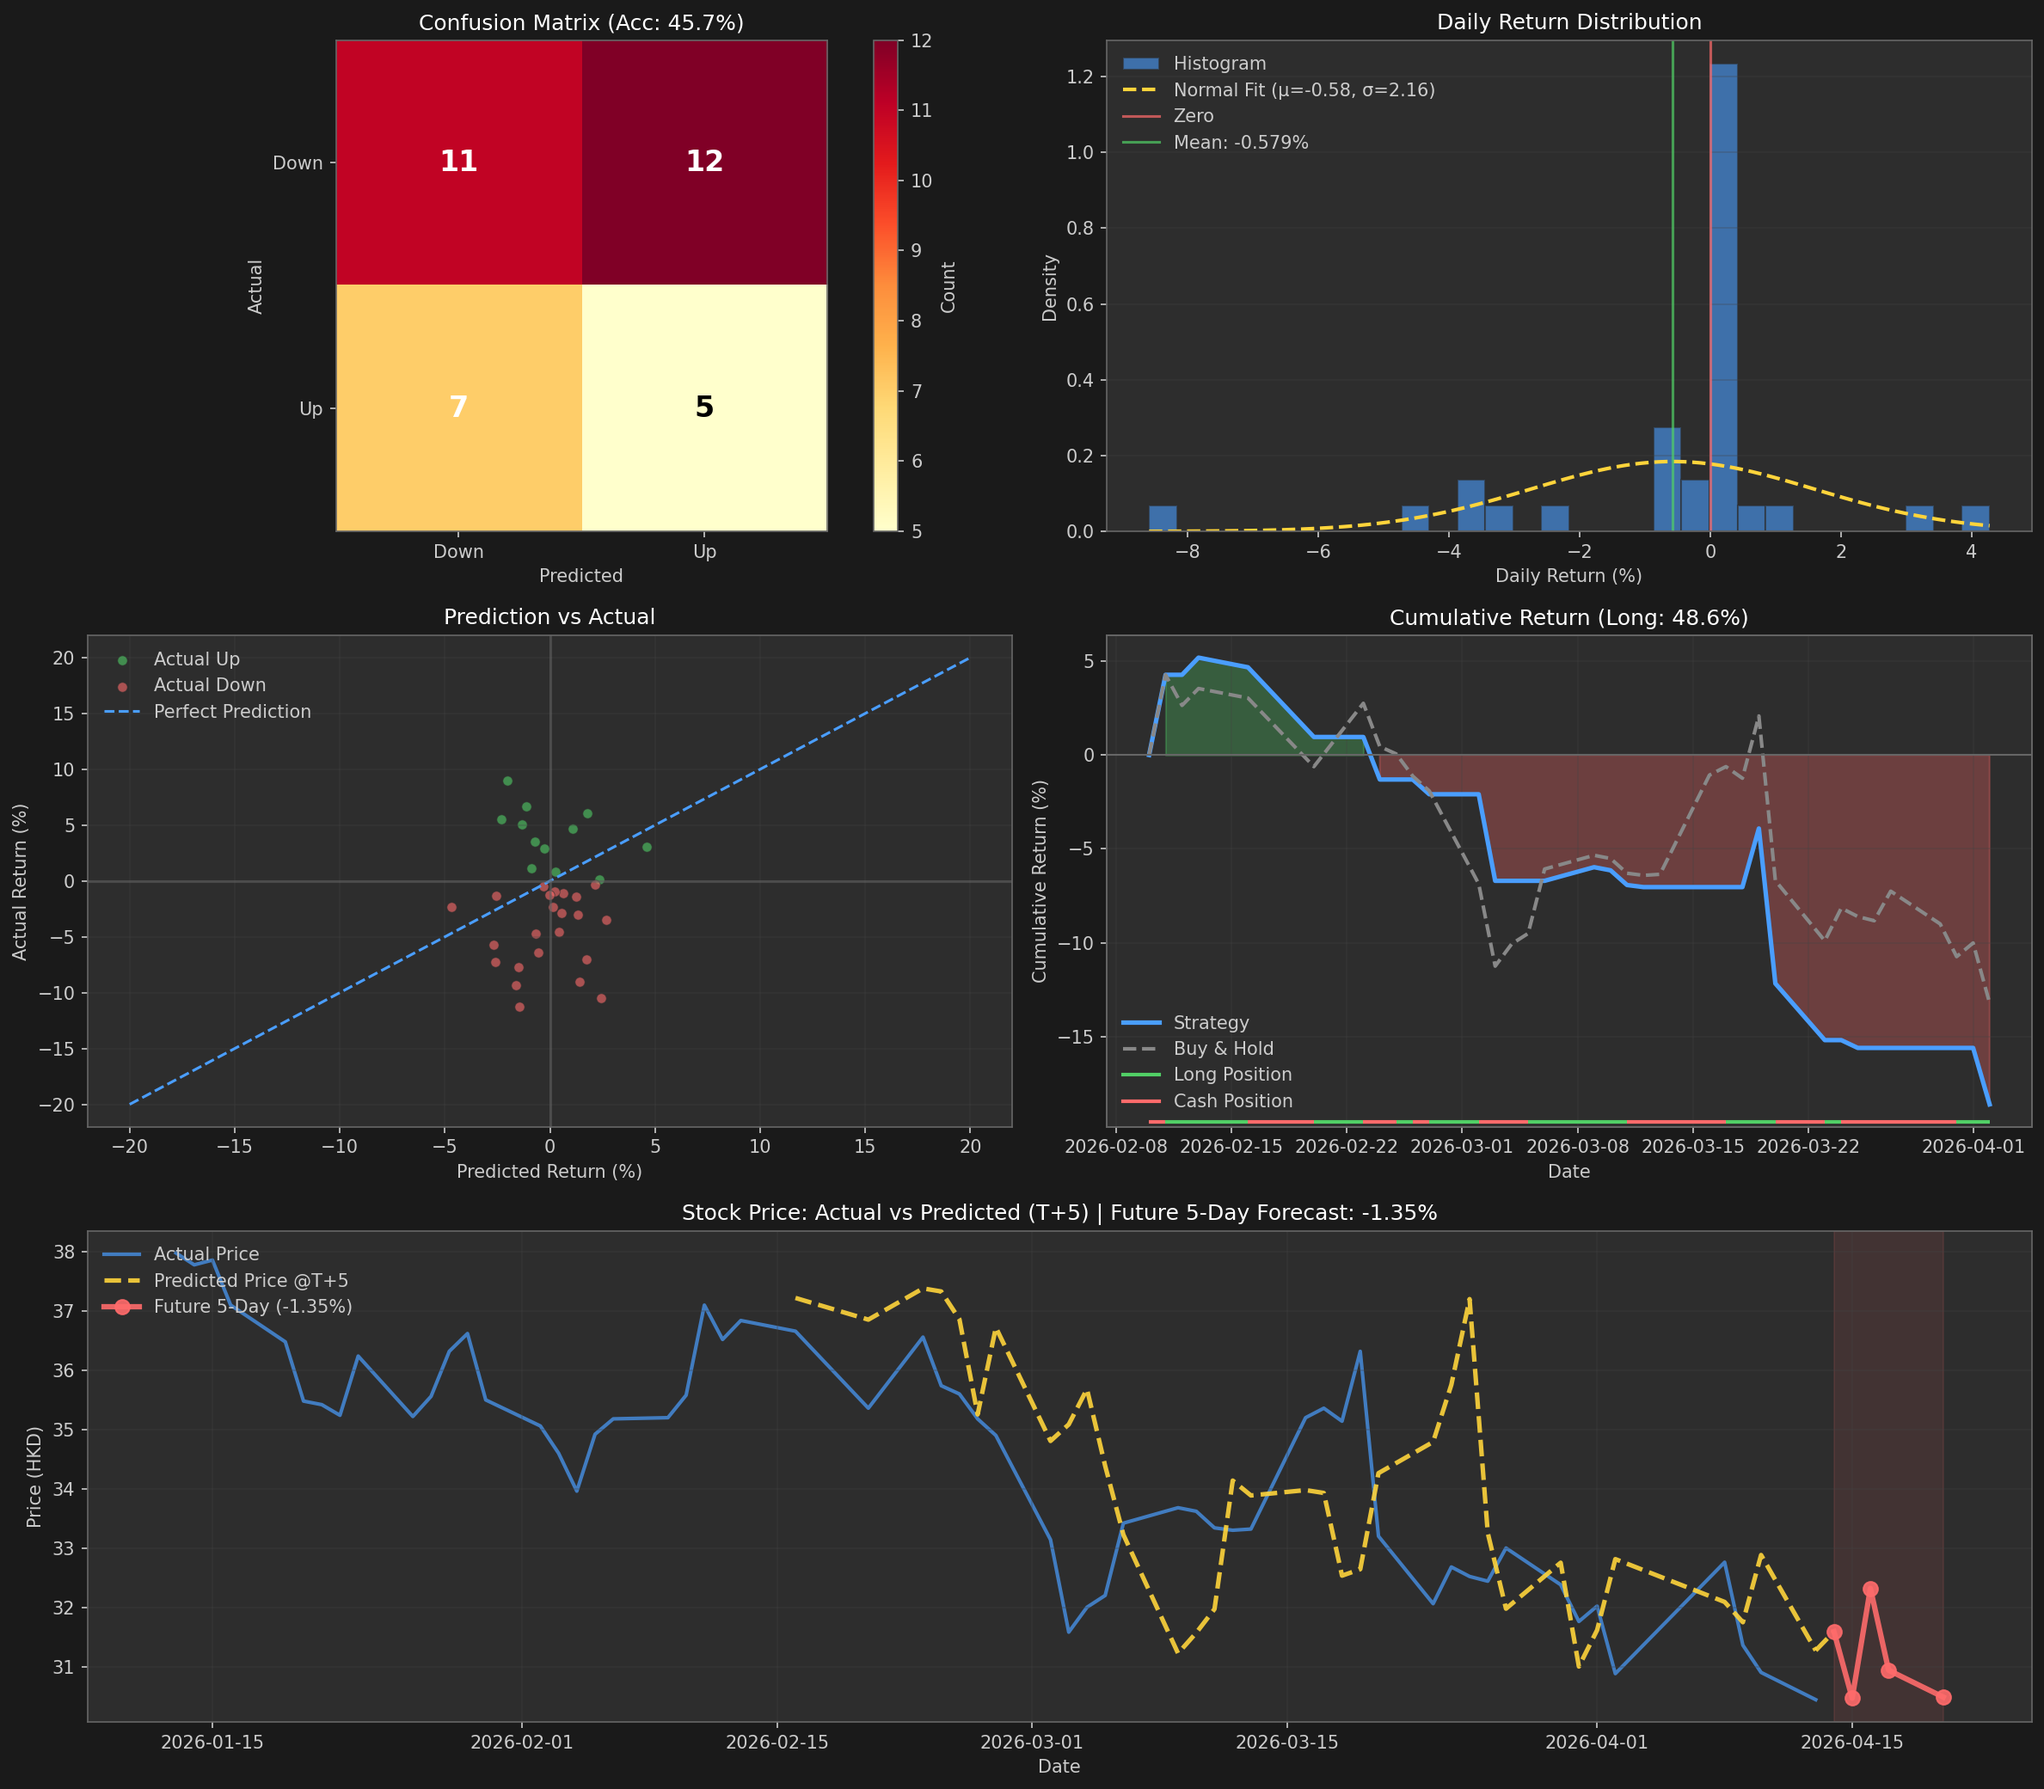
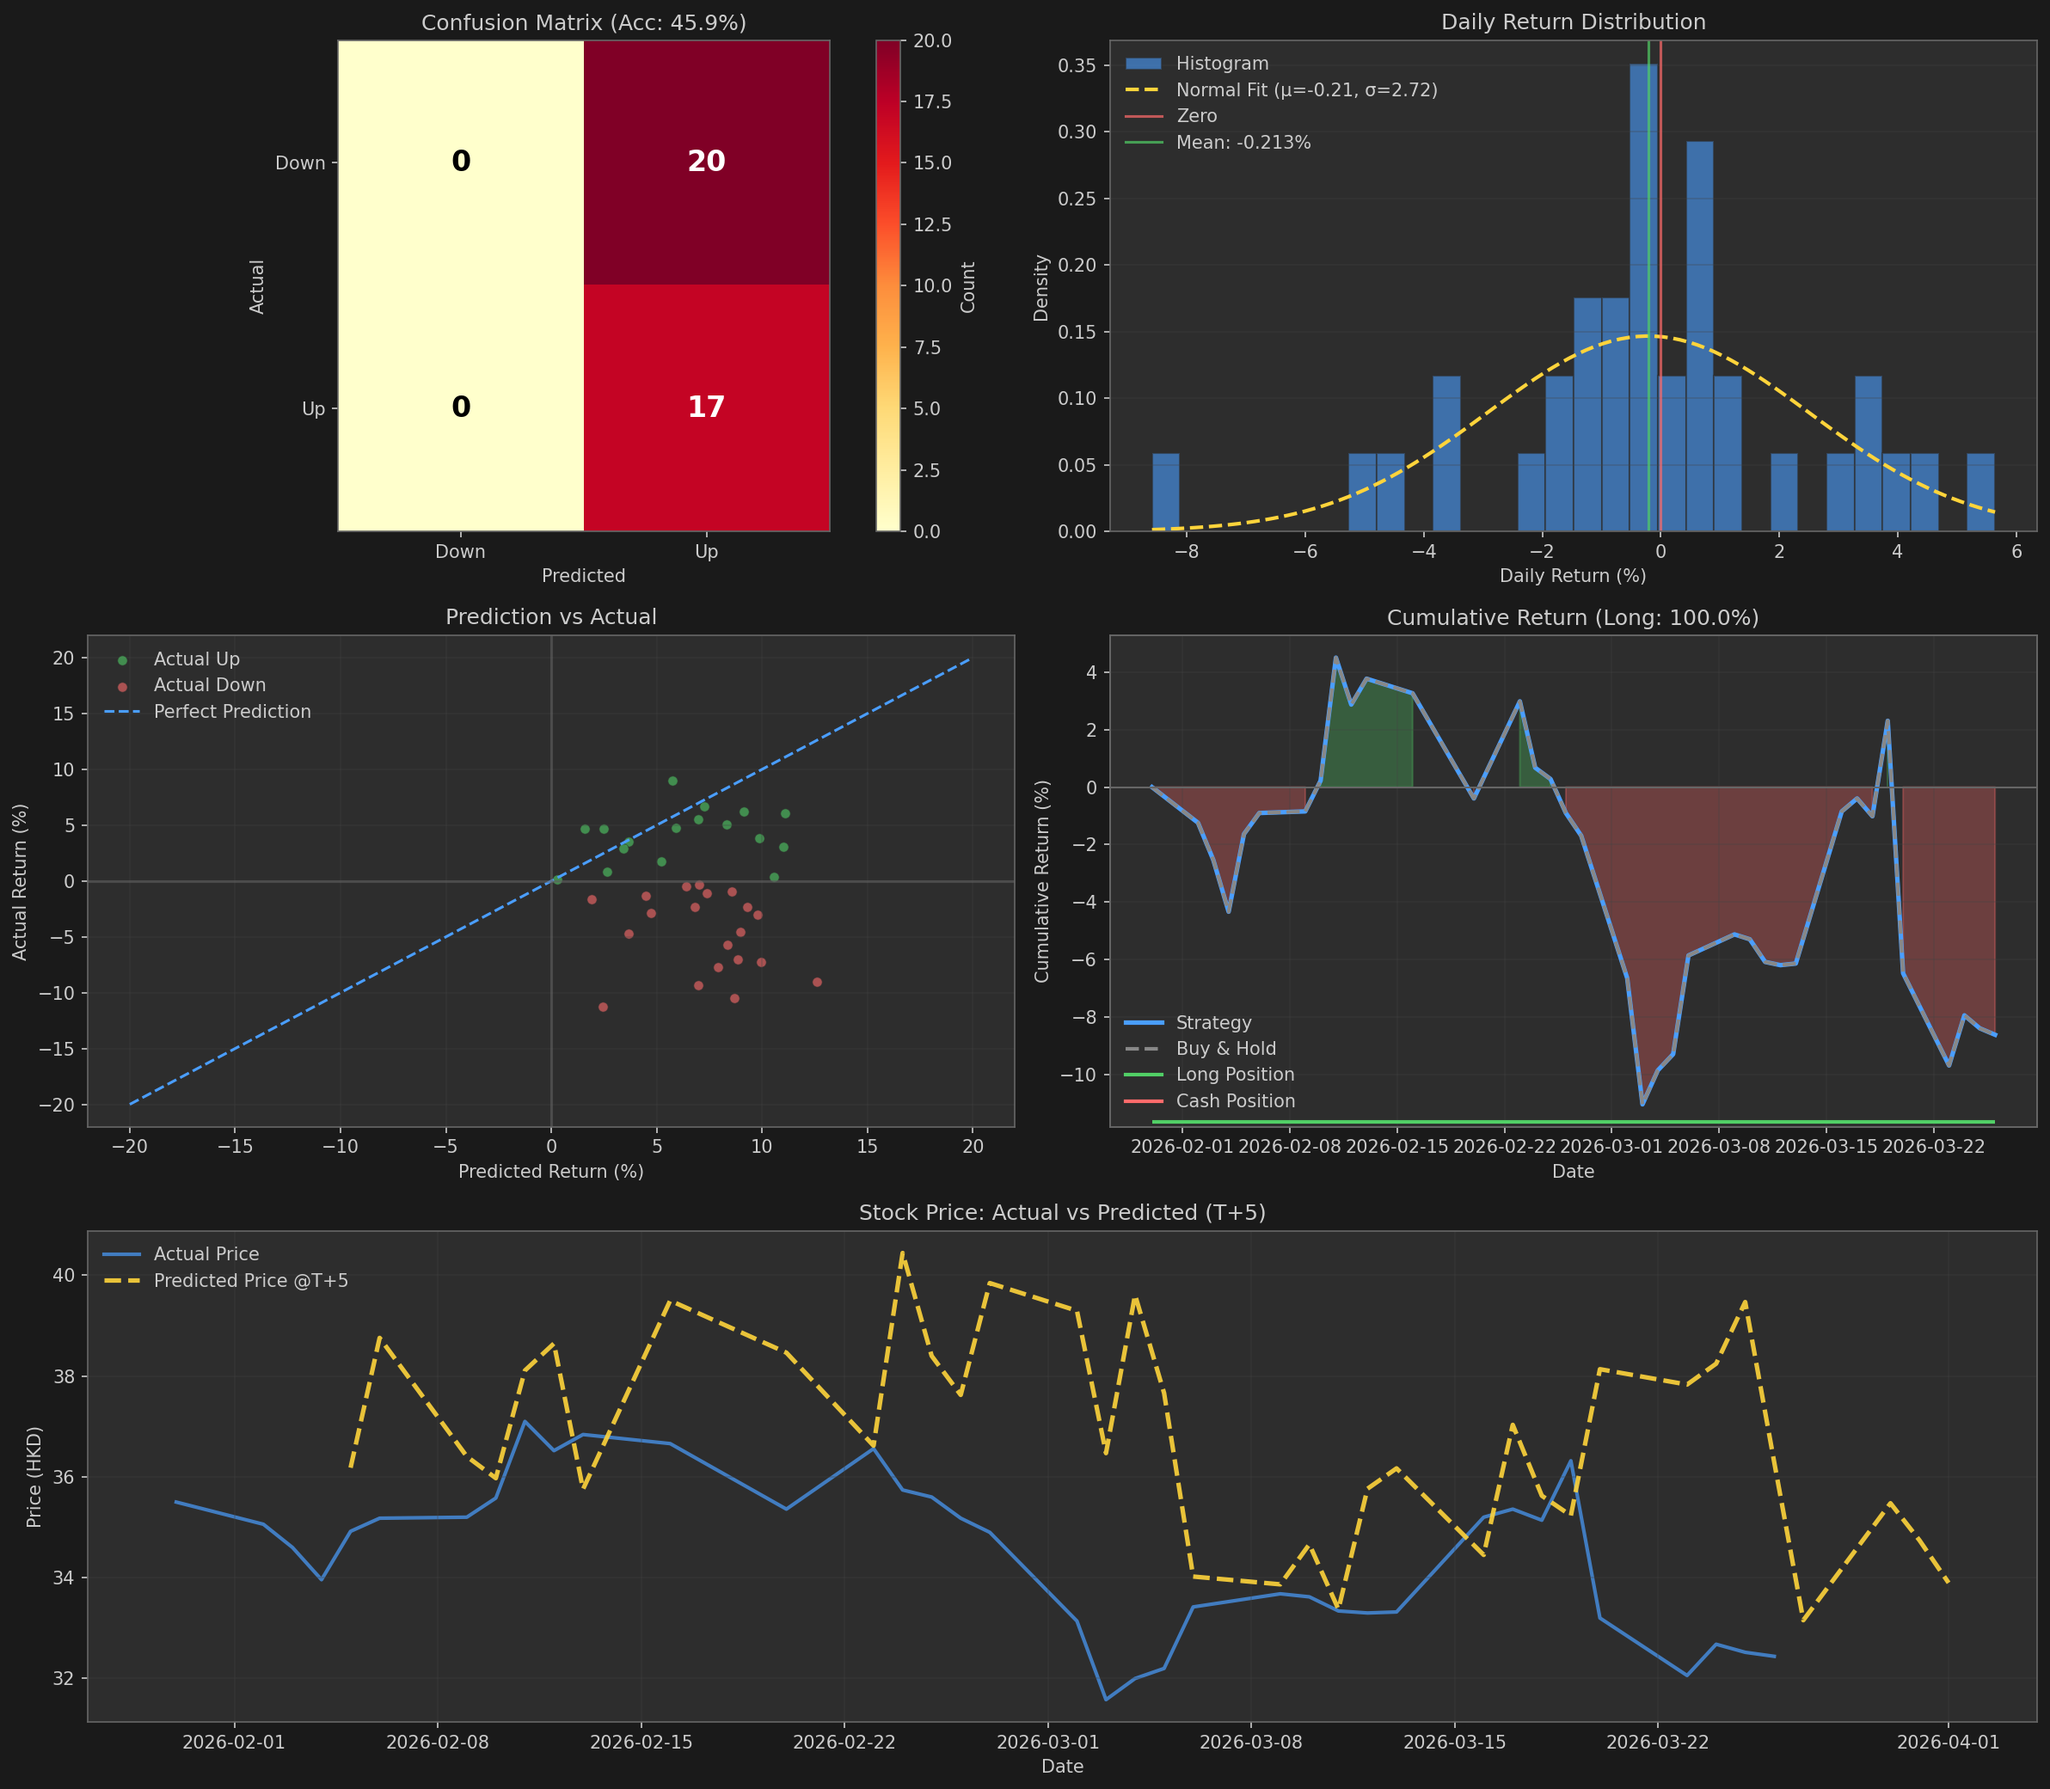
fix(backtest): auto-select latest model, add model_config saving
- backtest.py: prioritize latest timestamp model, add weights_only=False for PyTorch 2.6+
- backtest.py: fallback logic for model config (old checkpoints vs new)
- trainer.py: accept optional model_config dict in save_checkpoint()
- train.py: pass model architecture config to checkpoint for backtest compatibility

diff --git a/scripts/backtest.py b/scripts/backtest.py
@@ -43,14 +43,54 @@ def main():
     feature_cols = engineer.get_feature_columns()
     df_clean = engineer.clean(df_features, feature_cols)
     
-    # 2. 加載模型
-    model_path = f"{config.paths.model_dir}/patchtst_bayesian_best.pth"
-    if not Path(model_path).exists():
-        model_path = f"{config.paths.model_dir}/patchtst_model.pth"
+    # 2. 加載模型（優先加載最新的 timestamp 模型，再 fallback 到 bayesian）
+    model_dir = Path(config.paths.model_dir)
+    
+    # 查找最新的 patchtst_model_YYYYMMDD_HHMMSS.pth
+    model_files = sorted(model_dir.glob("patchtst_model_*.pth"), reverse=True)
+    if model_files:
+        model_path = model_files[0]
+    elif (model_dir / "patchtst_bayesian_best.pth").exists():
+        model_path = model_dir / "patchtst_bayesian_best.pth"
+    else:
+        model_path = model_dir / "patchtst_model.pth"
+    
+    logger.info(f"加載模型: {model_path.name}")
     
     device = torch.device('cuda' if torch.cuda.is_available() else 'cpu')
-    checkpoint = torch.load(model_path, map_location=device)
-    loaded_config = checkpoint['model_config']
+    checkpoint = torch.load(model_path, map_location=device, weights_only=False)
+    
+    # 兼容舊模型格式（有 model_config）和新格式（從 config.yaml 讀取）
+    if 'model_config' in checkpoint:
+        loaded_config = checkpoint['model_config']
+    elif 'config' in checkpoint and hasattr(checkpoint['config'], 'model'):
+        # 新格式：config 包含 data 和 model
+        cfg = checkpoint['config']
+        loaded_config = {
+            'seq_len': cfg.data.seq_len,
+            'pred_len': cfg.data.pred_len,
+            'd_model': cfg.model.d_model,
+            'n_heads': cfg.model.n_heads,
+            'n_layers': cfg.model.n_layers,
+            'dropout': cfg.model.dropout,
+            'patch_len': 5,  # 默認值
+            'stride': 2,     # 默認值
+            'd_ff': cfg.model.d_ff
+        }
+    else:
+        # 兜底：使用當前 config.yaml
+        logger.warning("模型配置缺失，使用當前 config.yaml")
+        loaded_config = {
+            'seq_len': config.data.seq_len,
+            'pred_len': config.data.pred_len,
+            'd_model': config.model.d_model,
+            'n_heads': config.model.n_heads,
+            'n_layers': config.model.n_layers,
+            'dropout': config.model.dropout,
+            'patch_len': 5,
+            'stride': 2,
+            'd_ff': config.model.d_ff
+        }
     
     model = PatchTST(
         n_features=len(feature_cols),

diff --git a/scripts/train.py b/scripts/train.py
@@ -87,7 +87,20 @@ def main():
     model_filename = f"patchtst_model_{timestamp}.pth"
     model_path = f"{config.paths.model_dir}/{model_filename}"
     Path(config.paths.model_dir).mkdir(parents=True, exist_ok=True)
-    trainer.save_checkpoint(model_path)
+    
+    # 構建模型配置供回測使用
+    model_config = {
+        'seq_len': config.data.seq_len,
+        'pred_len': config.data.pred_len,
+        'd_model': config.model.d_model,
+        'n_heads': config.model.n_heads,
+        'n_layers': config.model.n_layers,
+        'dropout': config.model.dropout,
+        'patch_len': 5,
+        'stride': 2,
+        'd_ff': config.model.d_ff
+    }
+    trainer.save_checkpoint(model_path, model_config)
     
     # 測試集評估
     evaluator = Evaluator(device)

diff --git a/src/training/trainer.py b/src/training/trainer.py
@@ -193,7 +193,7 @@ class Trainer:
         
         return self.patience_counter >= self.config.early_stopping_patience
     
-    def save_checkpoint(self, path: str) -> None:
+    def save_checkpoint(self, path: str, model_config: Optional[Dict] = None) -> None:
         """保存模型檢查點"""
         checkpoint = {
             'model_state_dict': self.model.state_dict(),
@@ -202,6 +202,8 @@ class Trainer:
             'history': self.history,
             'config': self.config
         }
+        if model_config is not None:
+            checkpoint['model_config'] = model_config
         torch.save(checkpoint, path)
         logger.info(f"✓ 模型已保存: {path}")
     
